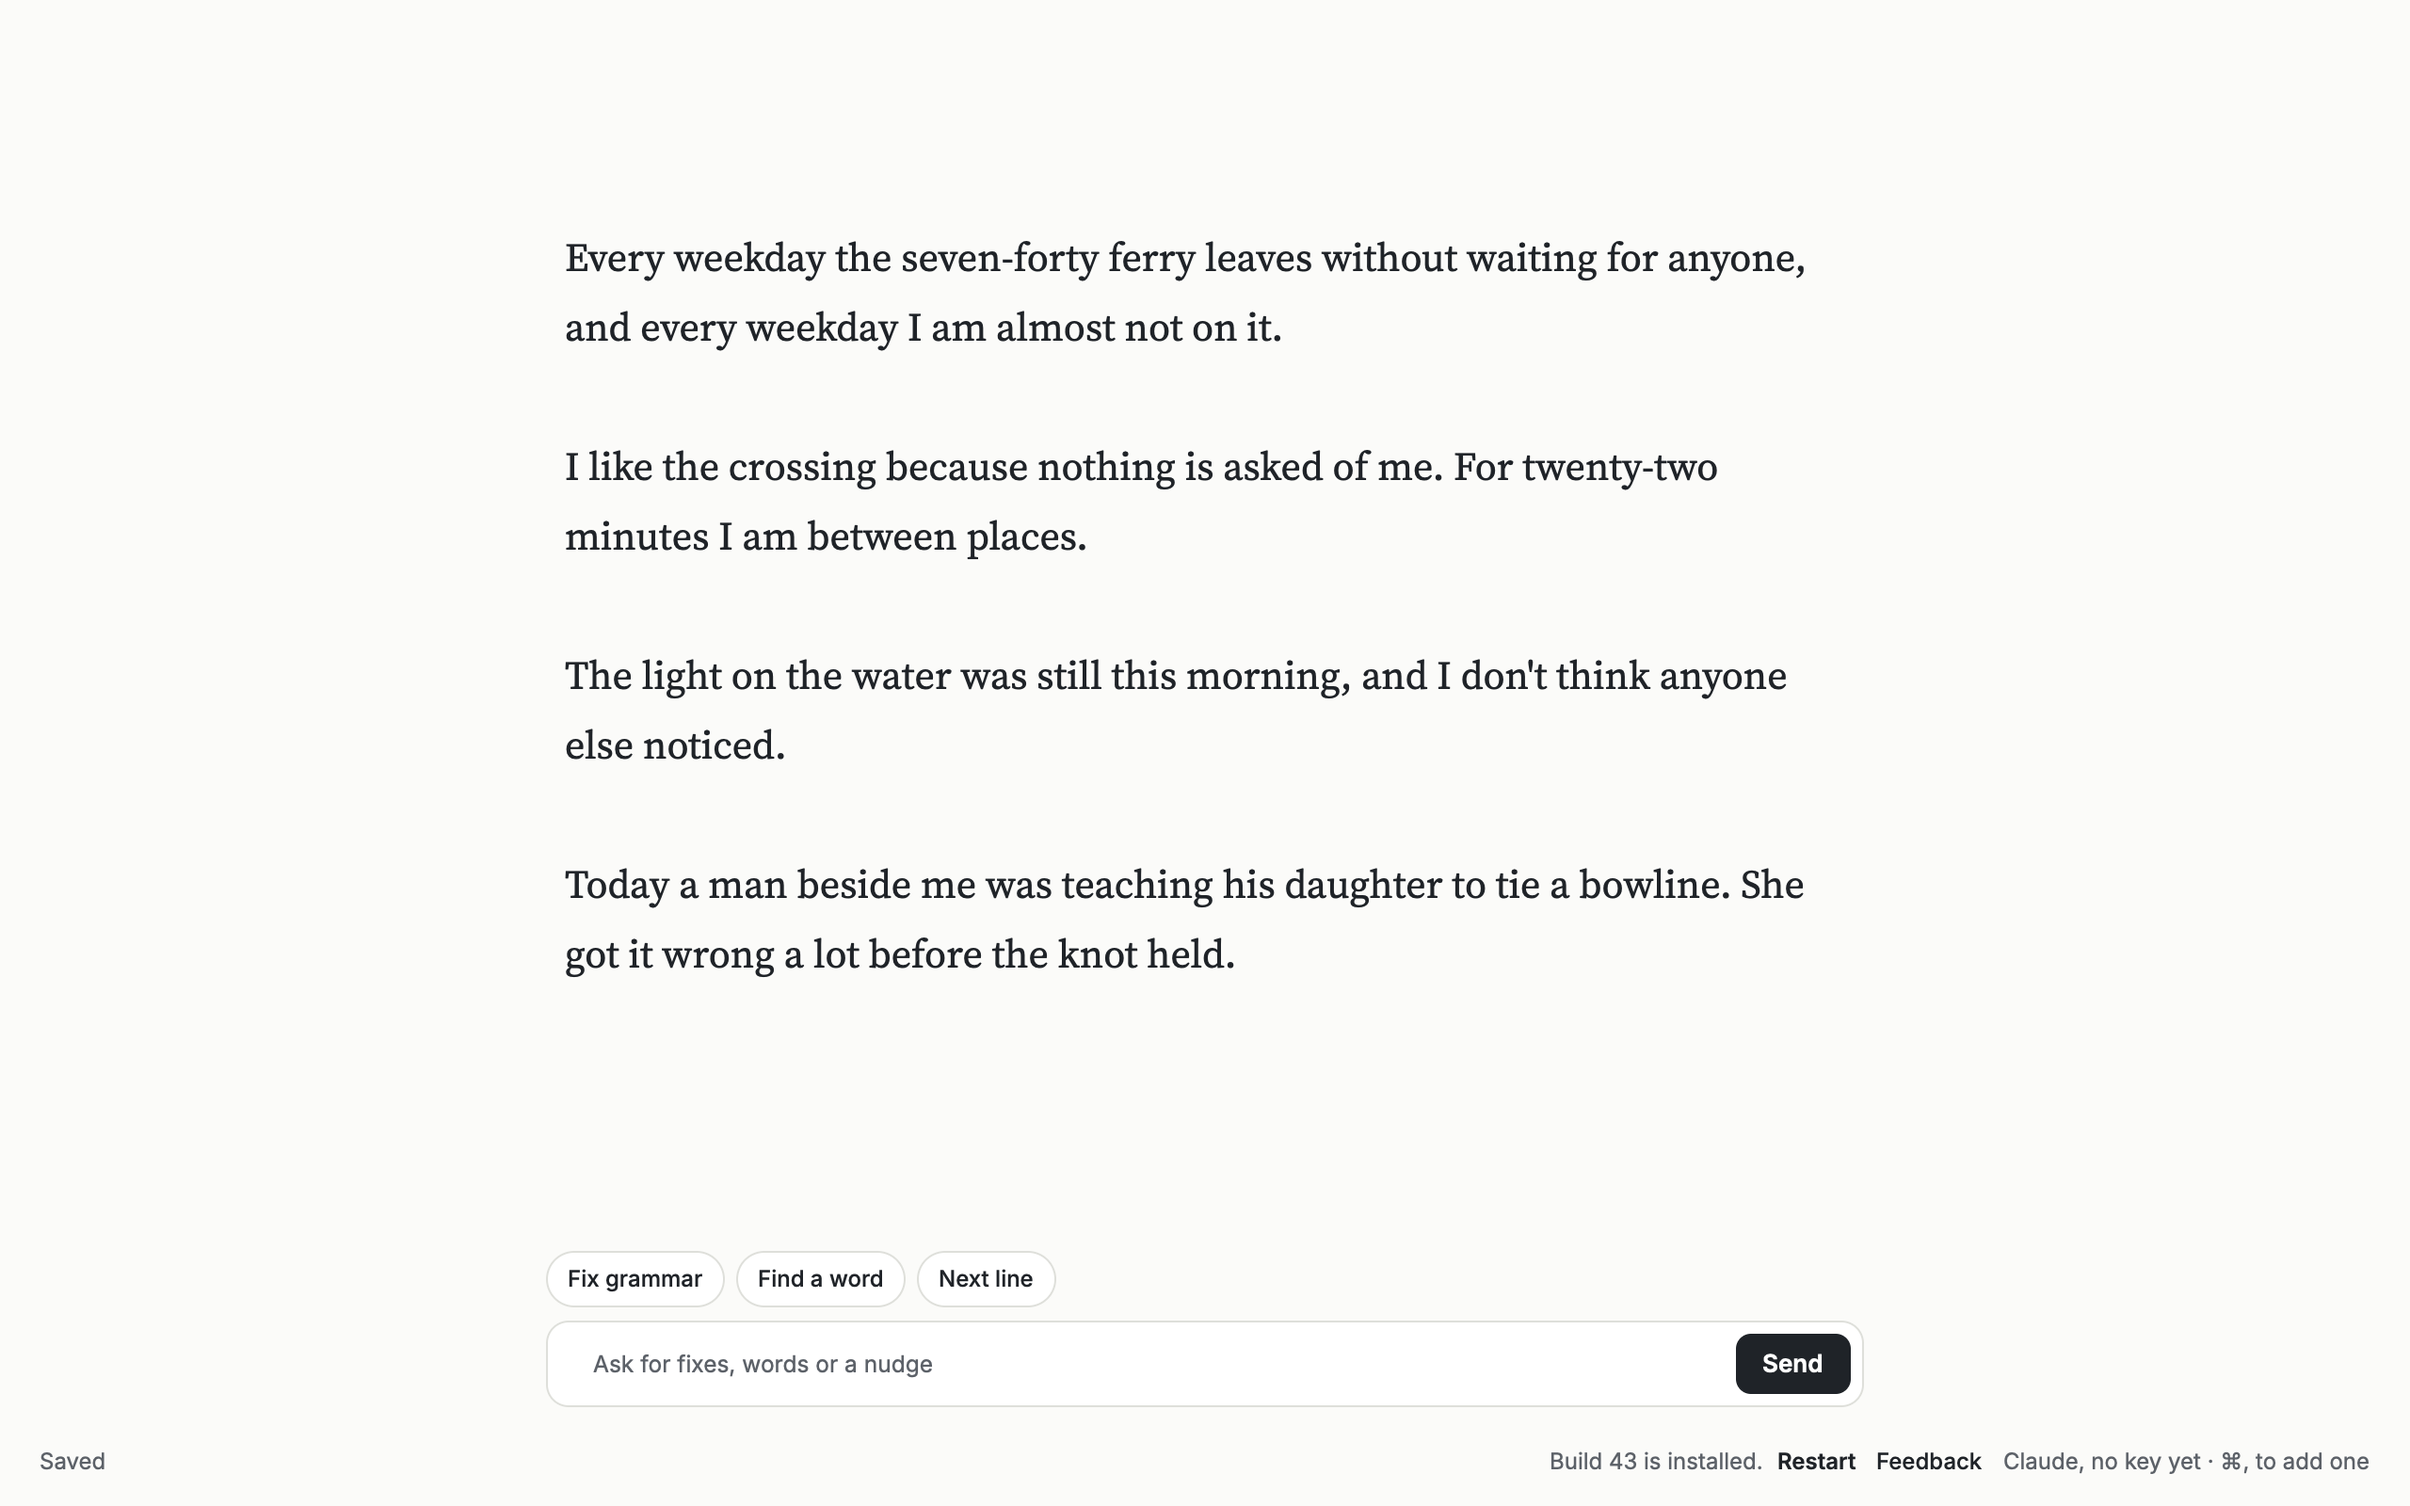
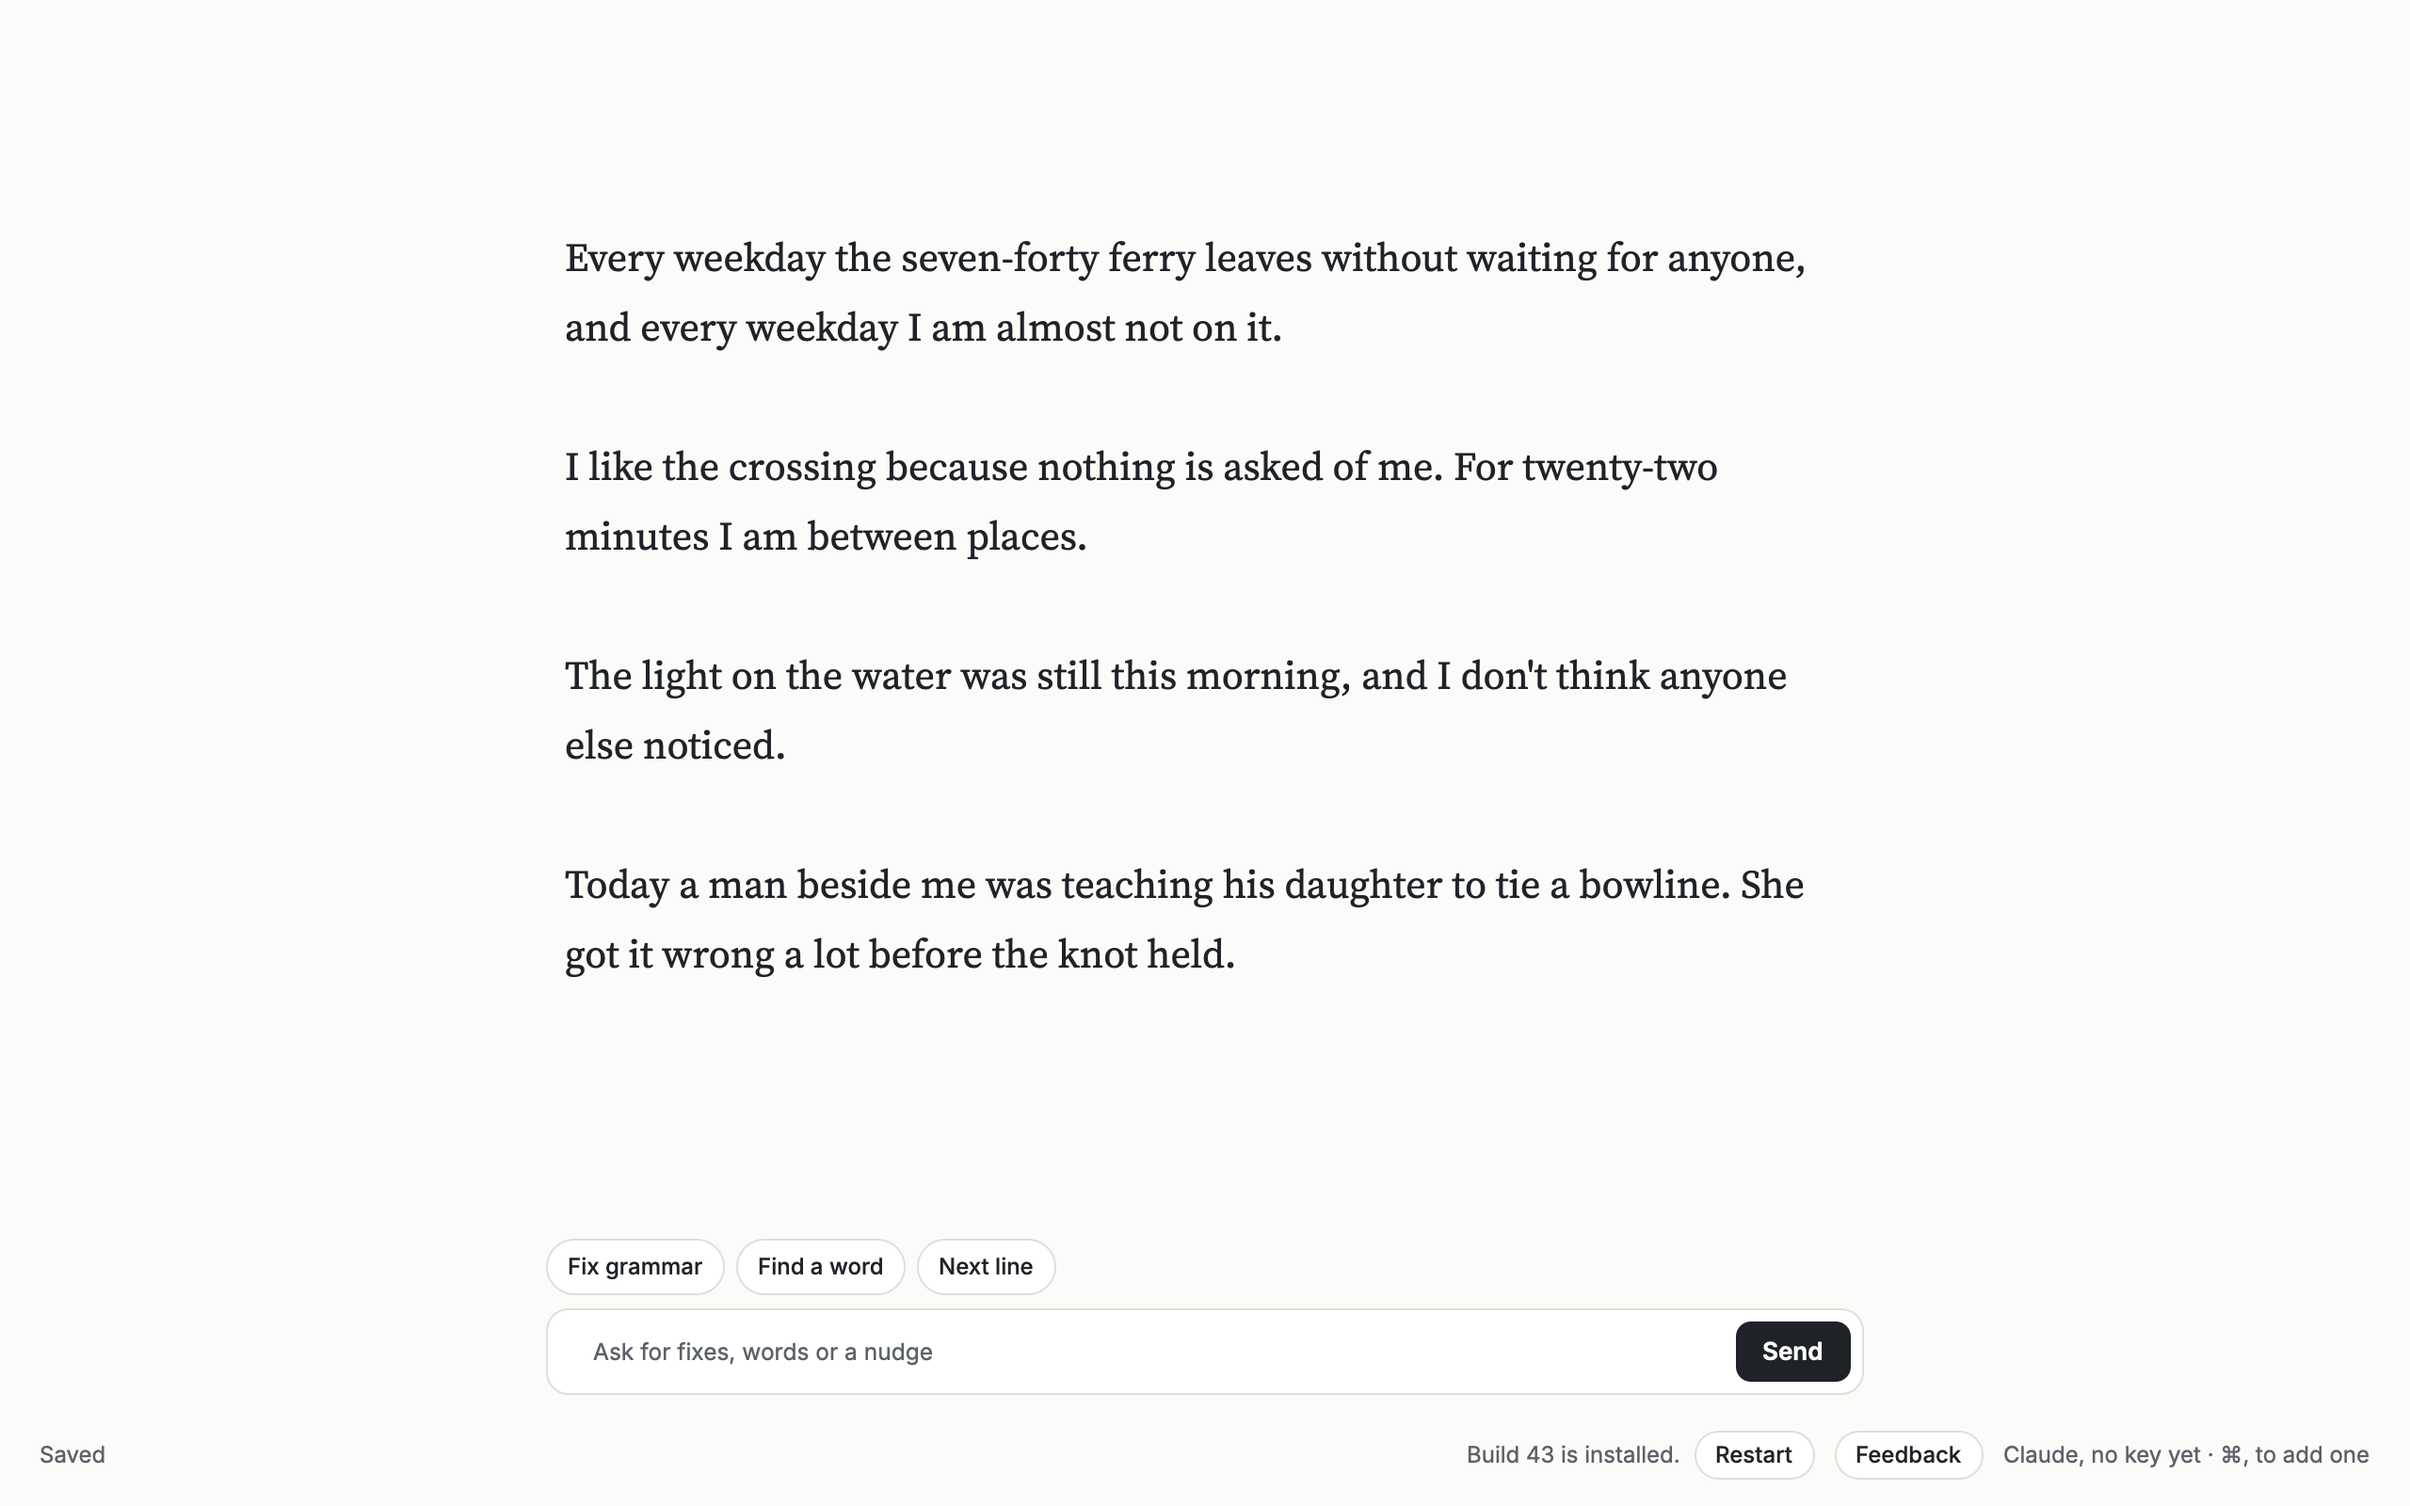
Restart and Feedback at the bottom of the page are now outlined buttons, like Fix grammar, instead of loose text. (feedback 1794450947-577neycf)
Feedback: 1794450947-577neycf

diff --git a/ui/src/app.rs b/ui/src/app.rs
@@ -706,6 +706,7 @@ impl Inkling {
         div()
             .w_full()
             .flex()
+            .items_center()
             .justify_between()
             .gap_3()
             .px_6()
@@ -717,12 +718,7 @@ impl Inkling {
             .children(self.render_restart(cx))
             .when(self.feedback_on, |footer| {
                 footer.child(
-                    div()
-                        .id("open-feedback")
-                        .font_weight(FontWeight::MEDIUM)
-                        .text_color(rgb(color::INK))
-                        .cursor_pointer()
-                        .child("Feedback")
+                    footer_button("open-feedback", "Feedback")
                         .on_click(cx.listener(|this, _, window, cx| this.open_feedback(window, cx)))
                         .test_support(),
                 )
@@ -882,6 +878,25 @@ pub(crate) fn ghost_button(id: &'static str, label: &'static str) -> Stateful<Di
         .rounded(px(6.))
         .font_weight(FontWeight::MEDIUM)
         .text_color(rgb(color::MUTED))
+        .cursor_pointer()
+        .child(label)
+}
+
+/// A Mac footer action: a small outlined pill, so it reads as a button beside the footer's text.
+pub(crate) fn footer_button(id: &'static str, label: &'static str) -> Stateful<Div> {
+    div()
+        .id(id)
+        .flex_none()
+        .h(px(26.))
+        .px(px(10.))
+        .flex()
+        .items_center()
+        .bg(rgb(color::SURFACE))
+        .border_1()
+        .border_color(rgb(color::HAIRLINE))
+        .rounded(px(13.))
+        .font_weight(FontWeight::MEDIUM)
+        .text_color(rgb(color::INK))
         .cursor_pointer()
         .child(label)
 }

diff --git a/ui/src/feedback.rs b/ui/src/feedback.rs
@@ -2,7 +2,7 @@
 //! device sent with each item's status in the running build. It renders `inkling_core::Desk` and
 //! keeps no copy of it. Nothing here is reachable until a feedback link is saved.
 
-use crate::app::{Inkling, ghost_button, primary_button};
+use crate::app::{Inkling, footer_button, ghost_button, primary_button};
 use crate::{FormFactor, SERIF, color};
 use gpui_kit::component::input::Textarea;
 use gpui_kit::prelude::FluentBuilder as _;
@@ -128,12 +128,7 @@ impl Inkling {
                 .text_color(rgb(color::MUTED))
                 .child(format!("Build {} is installed.", build.0))
                 .child(
-                    div()
-                        .id("restart")
-                        .font_weight(FontWeight::SEMIBOLD)
-                        .text_color(rgb(color::INK))
-                        .cursor_pointer()
-                        .child("Restart")
+                    footer_button("restart", "Restart")
                         .on_click(cx.listener(|this, _, _, cx| this.restart(cx)))
                         .test_support(),
                 ),

diff --git a/mac/src/snap.rs b/mac/src/snap.rs
@@ -396,7 +396,8 @@ fn feedback(dir: &Path) {
     check(leaked.is_empty(), &format!("the link is in no file in the data folder {leaked:?}"));
     s.shot("14-feedback-link");
     s.press("escape");
-    check(s.bounds("open-feedback").is_some(), "the footer offers Feedback");
+    let feedback = s.bounds("open-feedback");
+    check(feedback.is_some_and(|b| b.size.height >= px(24.)), "the footer offers Feedback as a button, not bare text");
 
     s.click("open-feedback");
     check(s.read(|v, _| v.feedback_open()), "Feedback opens the feedback screen");
@@ -475,7 +476,7 @@ fn feedback(dir: &Path) {
     check(s.bounds("restart").is_none(), "the running build on disk offers no restart");
     s.update(|v, _, cx| v.set_installed_build(Some(BuildNumber(43)), cx));
     s.frame();
-    check(s.bounds("restart").is_some(), "a newer build on disk offers Restart");
+    check(s.bounds("restart").is_some_and(|b| b.size.height >= px(24.)), "a newer build on disk offers a Restart button");
     s.shot("20-restart");
     s.input("Restart now. ");
     s.click("restart");
